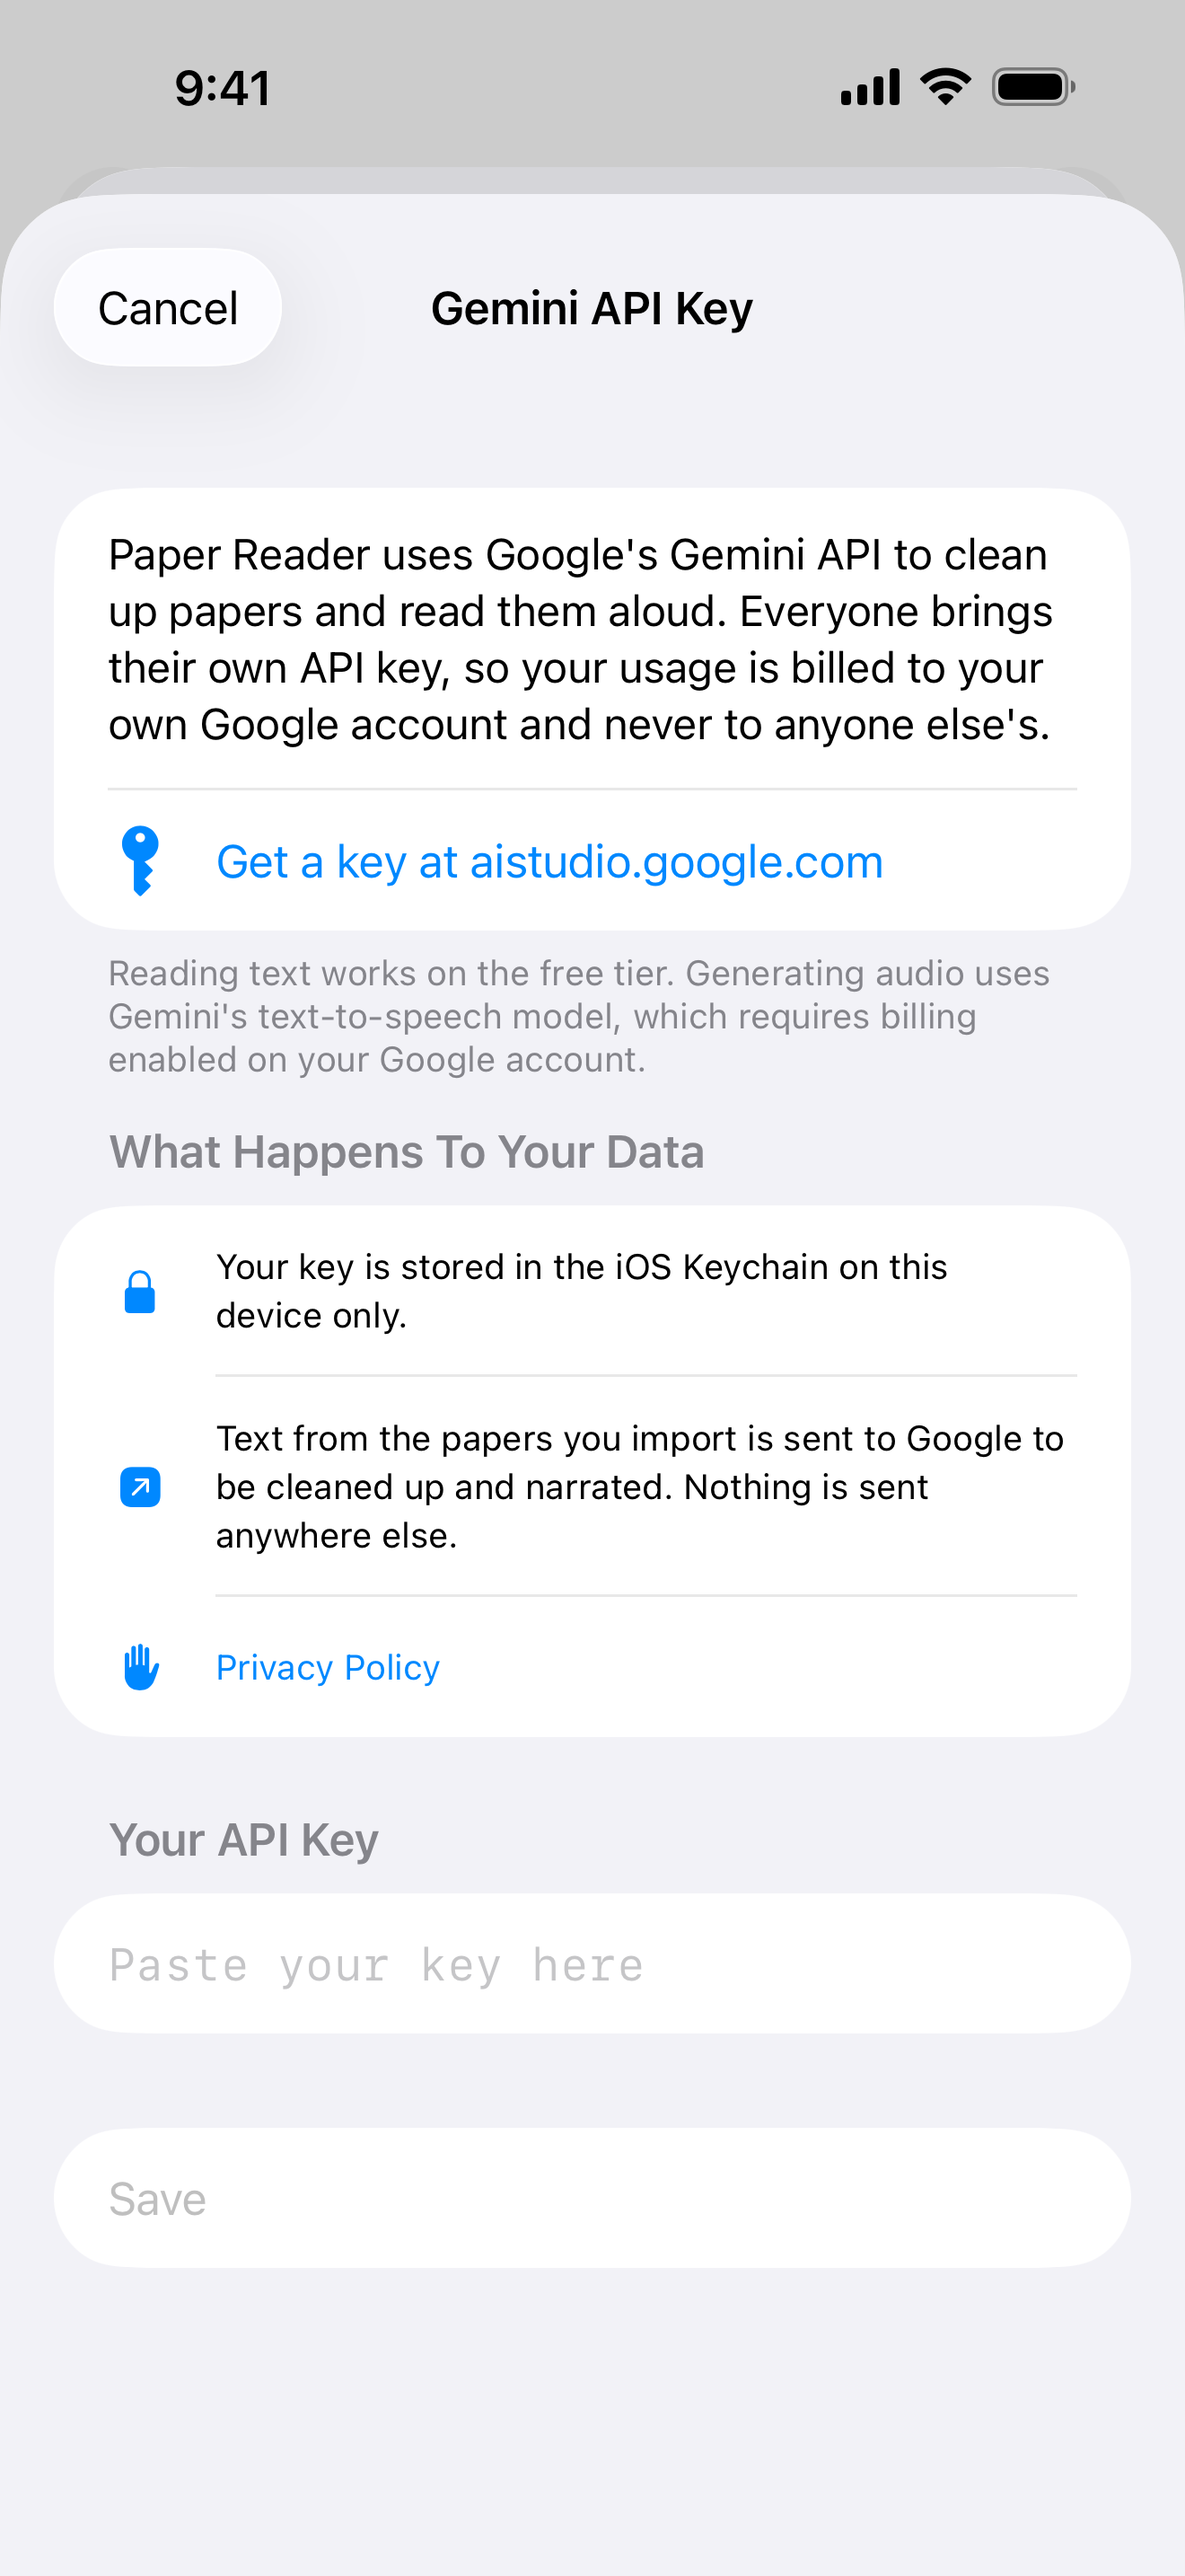
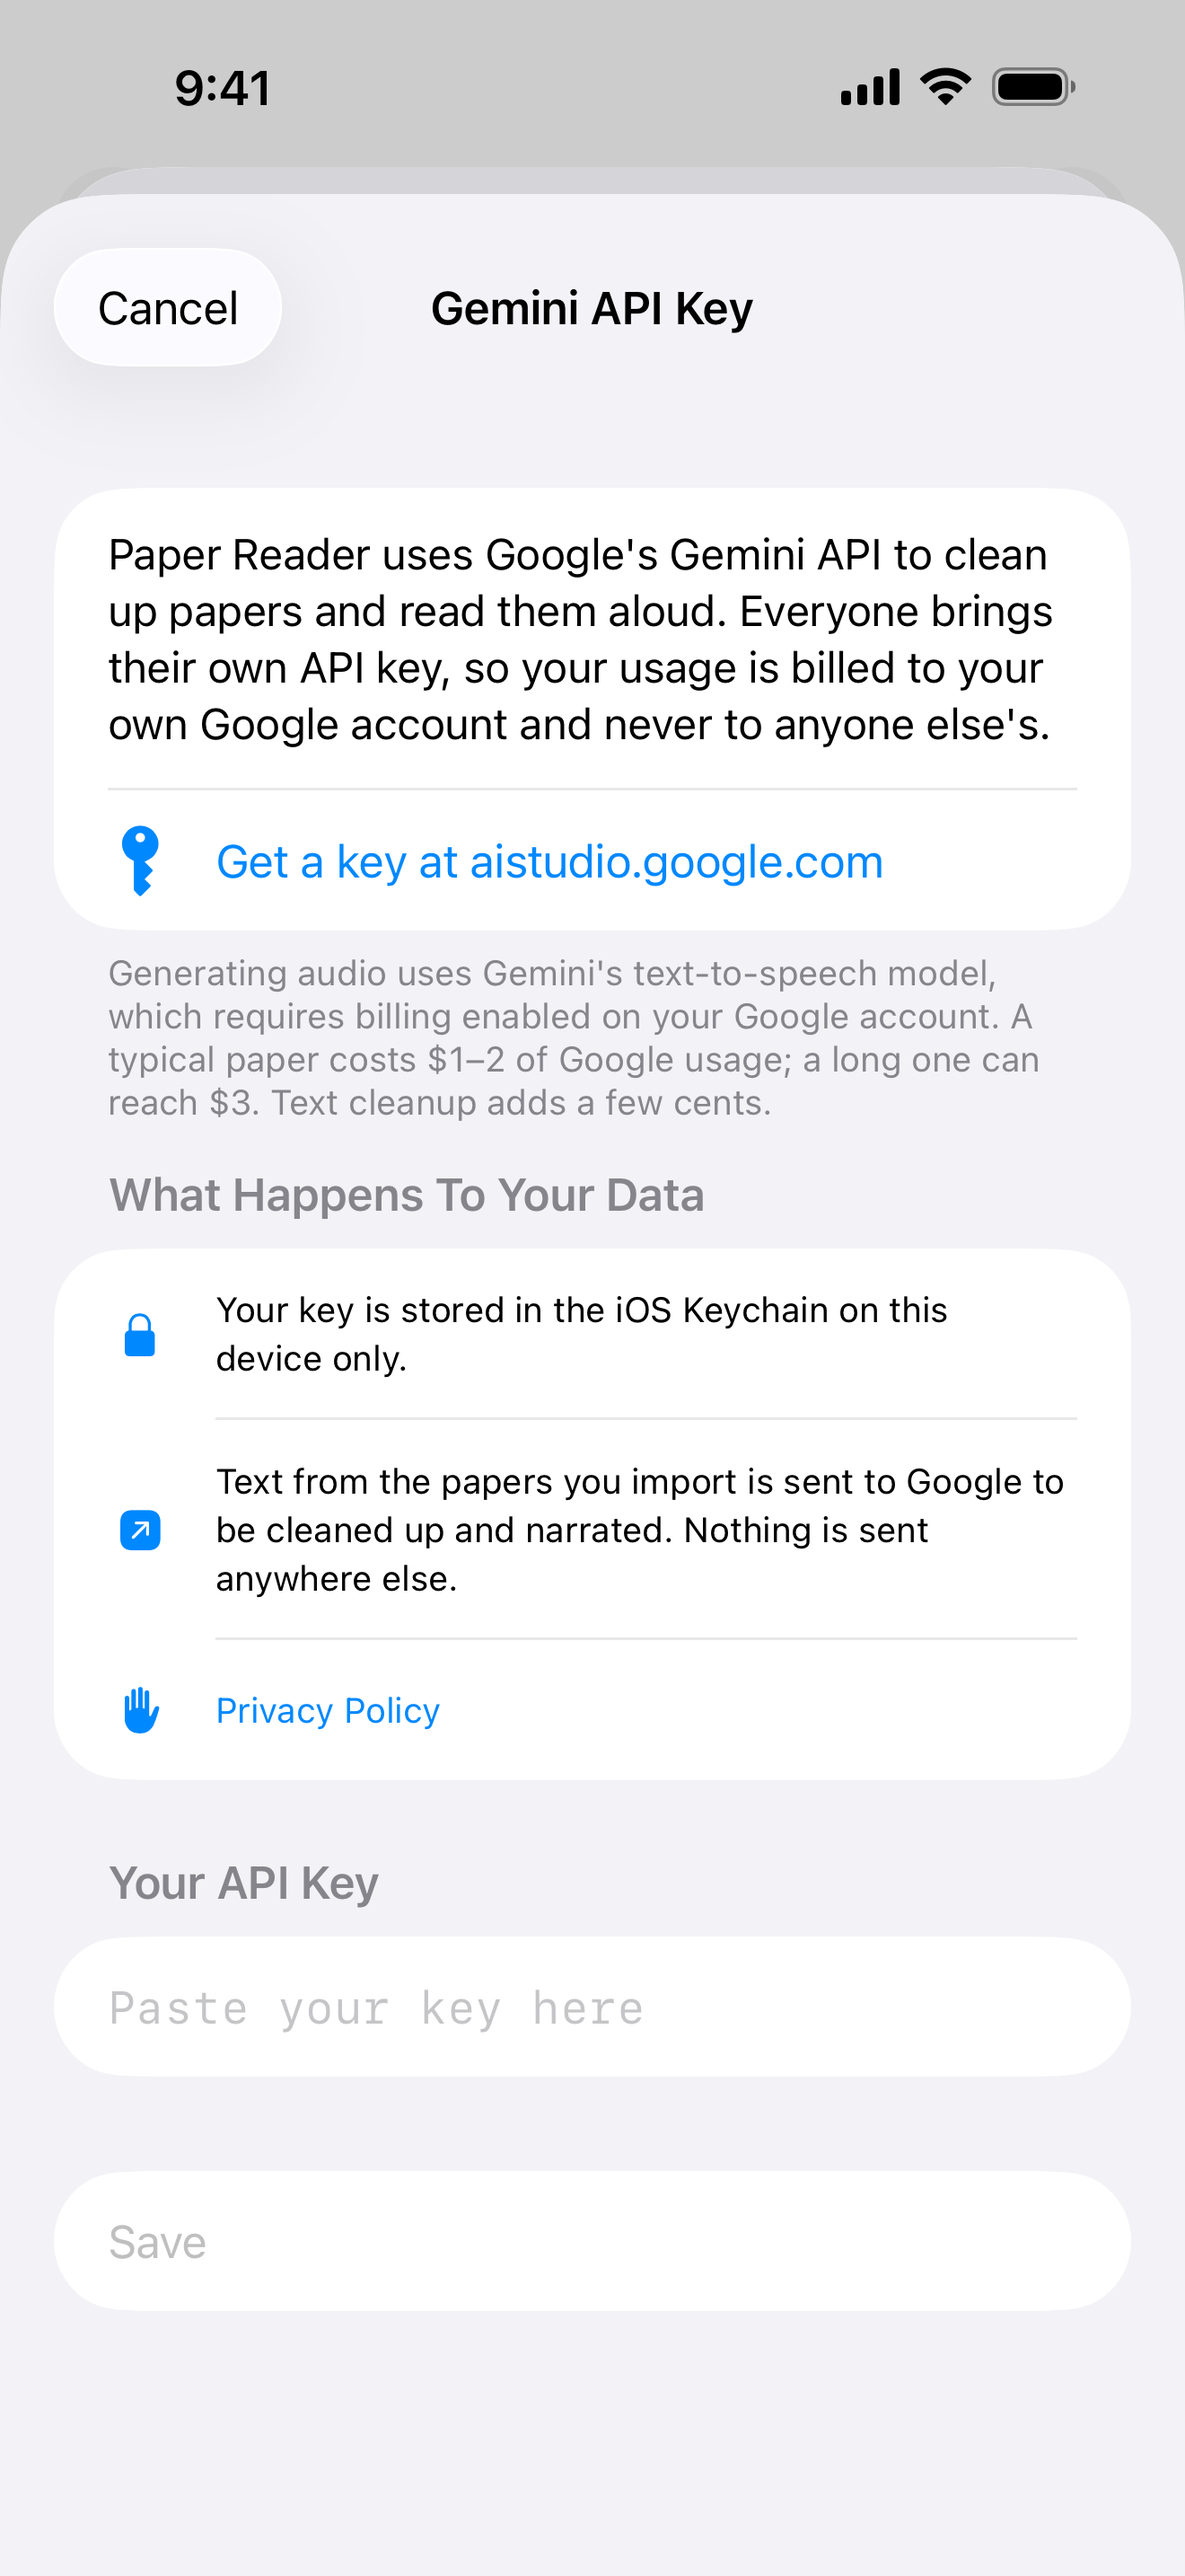
Prepare build 5: version, screenshots, and a broadened description
Build 4 has been sitting in Waiting for Review since 17 August with two bugs
found on device since — the narration filtering itself at 1x and papers that
would not delete mid-processing — so this readies a replacement.

- Build number to 5. The marketing version stays 1.0; this is still the first
  release, and a build number cannot be reused.
- Screenshots regenerated. Two had gone stale: the voices caption promised
  "0.75x to 2x" from before speeds became typeable, and the API-key capture
  still showed the free-tier line. The captures also pick up the percentage
  labels that replaced the sentence counter.
- Description broadened. It sold the app as reading "research paper PDFs"
  while the app has read slide decks and articles since 89243a9 — the deck
  handling is the most interesting thing the cleanup does and it went
  unmentioned. Also states that playback starts immediately and that the speed
  can be anything from 0.75x to 2x.

description.txt now exists, which the submission notes have been telling the
reader to paste from. Its paragraphs are unwrapped so they paste without hard
breaks landing mid-sentence.

ScreenshotTests was reading the "Sentence N of M" label to prove the bundled
audio really plays, and that label became a percentage, so it silently read 0
and asserted 0 > 0. It reads the percentage now. The seed tool is renamed to
main.swift, matching Tools/sample/, because swiftc only accepts top-level code
[…]

diff --git a/PaperReaderUITests/ScreenshotTests.swift b/PaperReaderUITests/ScreenshotTests.swift
@@ -54,7 +54,7 @@ final class ScreenshotTests: XCTestCase {
         snap("02-reader")
 
         // Playing: highlight advances and the control flips to pause.
-        let started = sentenceIndex()
+        let started = percentListened()
         play.tap()
         XCTAssertNotNil(waitForHittable("pause.circle.fill", timeout: 5),
                         "playback never started — bundled audio may be unreadable")
@@ -63,10 +63,10 @@ final class ScreenshotTests: XCTestCase {
 
         // Proves the audio really is playing out of the app bundle: the playhead
         // has to have advanced on its own, with no API call possible.
-        let reached = sentenceIndex()
+        let reached = percentListened()
         XCTAssertGreaterThan(reached, started,
-                             "playhead stuck at sentence \(started) — bundled audio not playing")
-        print("SAMPLE PLAYBACK OK — advanced \(started) -> \(reached) of 44")
+                             "playhead stuck at \(started)% — bundled audio not playing")
+        print("SAMPLE PLAYBACK OK — advanced \(started)% -> \(reached)%")
 
         // Back to the library; the mini player now shows what's playing.
         XCTAssertTrue(returnToLibrary(), "reader wouldn't close\n\(app.debugDescription)")
@@ -134,7 +134,7 @@ final class ScreenshotTests: XCTestCase {
     /// The reader's close button can report itself hittable before the cover
     /// has settled, so a single tap sometimes lands on nothing. The library's
     /// gear button being hittable is the only reliable signal that we're back —
-    /// the mini player shows a "Sentence N of M" label too, so that isn't one.
+    /// the mini player shows an "N% listened" label too, so that isn't one.
     private func returnToLibrary() -> Bool {
         for _ in 0..<6 {
             if waitForHittable("gearshape", timeout: 2) != nil { return true }
@@ -145,12 +145,12 @@ final class ScreenshotTests: XCTestCase {
         return false
     }
 
-    /// Current position from the reader's "Sentence N of M" counter.
-    private func sentenceIndex() -> Int {
+    /// Current position from the player's "N% listened" label.
+    private func percentListened() -> Int {
         let label = app.staticTexts.matching(
-            NSPredicate(format: "label BEGINSWITH 'Sentence '")).firstMatch
-        guard label.exists, let n = label.label.split(separator: " ").dropFirst().first else { return 0 }
-        return Int(n) ?? 0
+            NSPredicate(format: "label ENDSWITH '% listened'")).firstMatch
+        guard label.exists, let n = label.label.split(separator: "%").first else { return -1 }
+        return Int(n) ?? -1
     }
 
     private func snap(_ name: String) {

diff --git a/APP_STORE_SUBMISSION.md b/APP_STORE_SUBMISSION.md
@@ -136,12 +136,16 @@ lines below are wrapped for reading and would paste as hard breaks mid-sentence)
 > inline citations, figure captions, and table fragments all get read aloud as noise.
 > Paper Reader uses Google's Gemini models to clean the extracted text into a coherent
 > script first, then narrates it so you hear the paper, not the layout.
+> It reads more than papers. Paper Reader works out what you have imported and cleans it
+> to suit — a slide deck's fragments become full spoken sentences rather than scattered
+> labels read aloud, and an article or report keeps its wording intact.
 > - Try it straight away — a sample paper comes ready to play, no setup, no key
 >
 > Import any text-based PDF from Files or iCloud Drive:
 >
+> - Papers start playing the moment they are ready, with no second wait for audio
 > - Follow along with sentence-by-sentence highlighting, or listen with the screen off
-> - Background audio, lock screen controls, adjustable playback speed
+> - Background audio, lock screen controls, and any narration speed from 0.75x to 2x
 > - 8 narration voices to choose from
 > - Papers, audio, and progress are saved on device, so you can pick up where you left off
 > - Processing resumes where it stopped if you close the app mid-paper

diff --git a/Tools/screenshots/README.md b/Tools/screenshots/README.md
@@ -16,7 +16,7 @@ box is rejected with "the dimensions of one or more screenshots are wrong". Fill
 
 ## 1. Stage a sample library
 
-`SeedLibrary.swift` writes `paper.json` files plus silent WAV audio of the correct
+`main.swift` writes `paper.json` files plus silent WAV audio of the correct
 duration into a folder, reusing the app's own `Paper`/`ChunkPlanner` types so the
 JSON is exactly what the real pipeline produces. Silent audio means playback,
 highlighting, and progress all behave for real without spending any API credits.
@@ -25,7 +25,7 @@ highlighting, and progress all behave for real without spending any API credits.
 SIM=$(xcrun simctl list devices available | grep "iPhone 17 Pro Max" | head -1 | sed -E 's/.*\(([-0-9A-F]+)\).*/\1/')
 xcrun simctl boot "$SIM"
 
-swiftc -O Tools/screenshots/SeedLibrary.swift \
+swiftc -O Tools/screenshots/main.swift \
   PaperReader/Models/Paper.swift PaperReader/Services/SentenceSegmenter.swift \
   -o /tmp/seedtool
 /tmp/seedtool /tmp/seed
